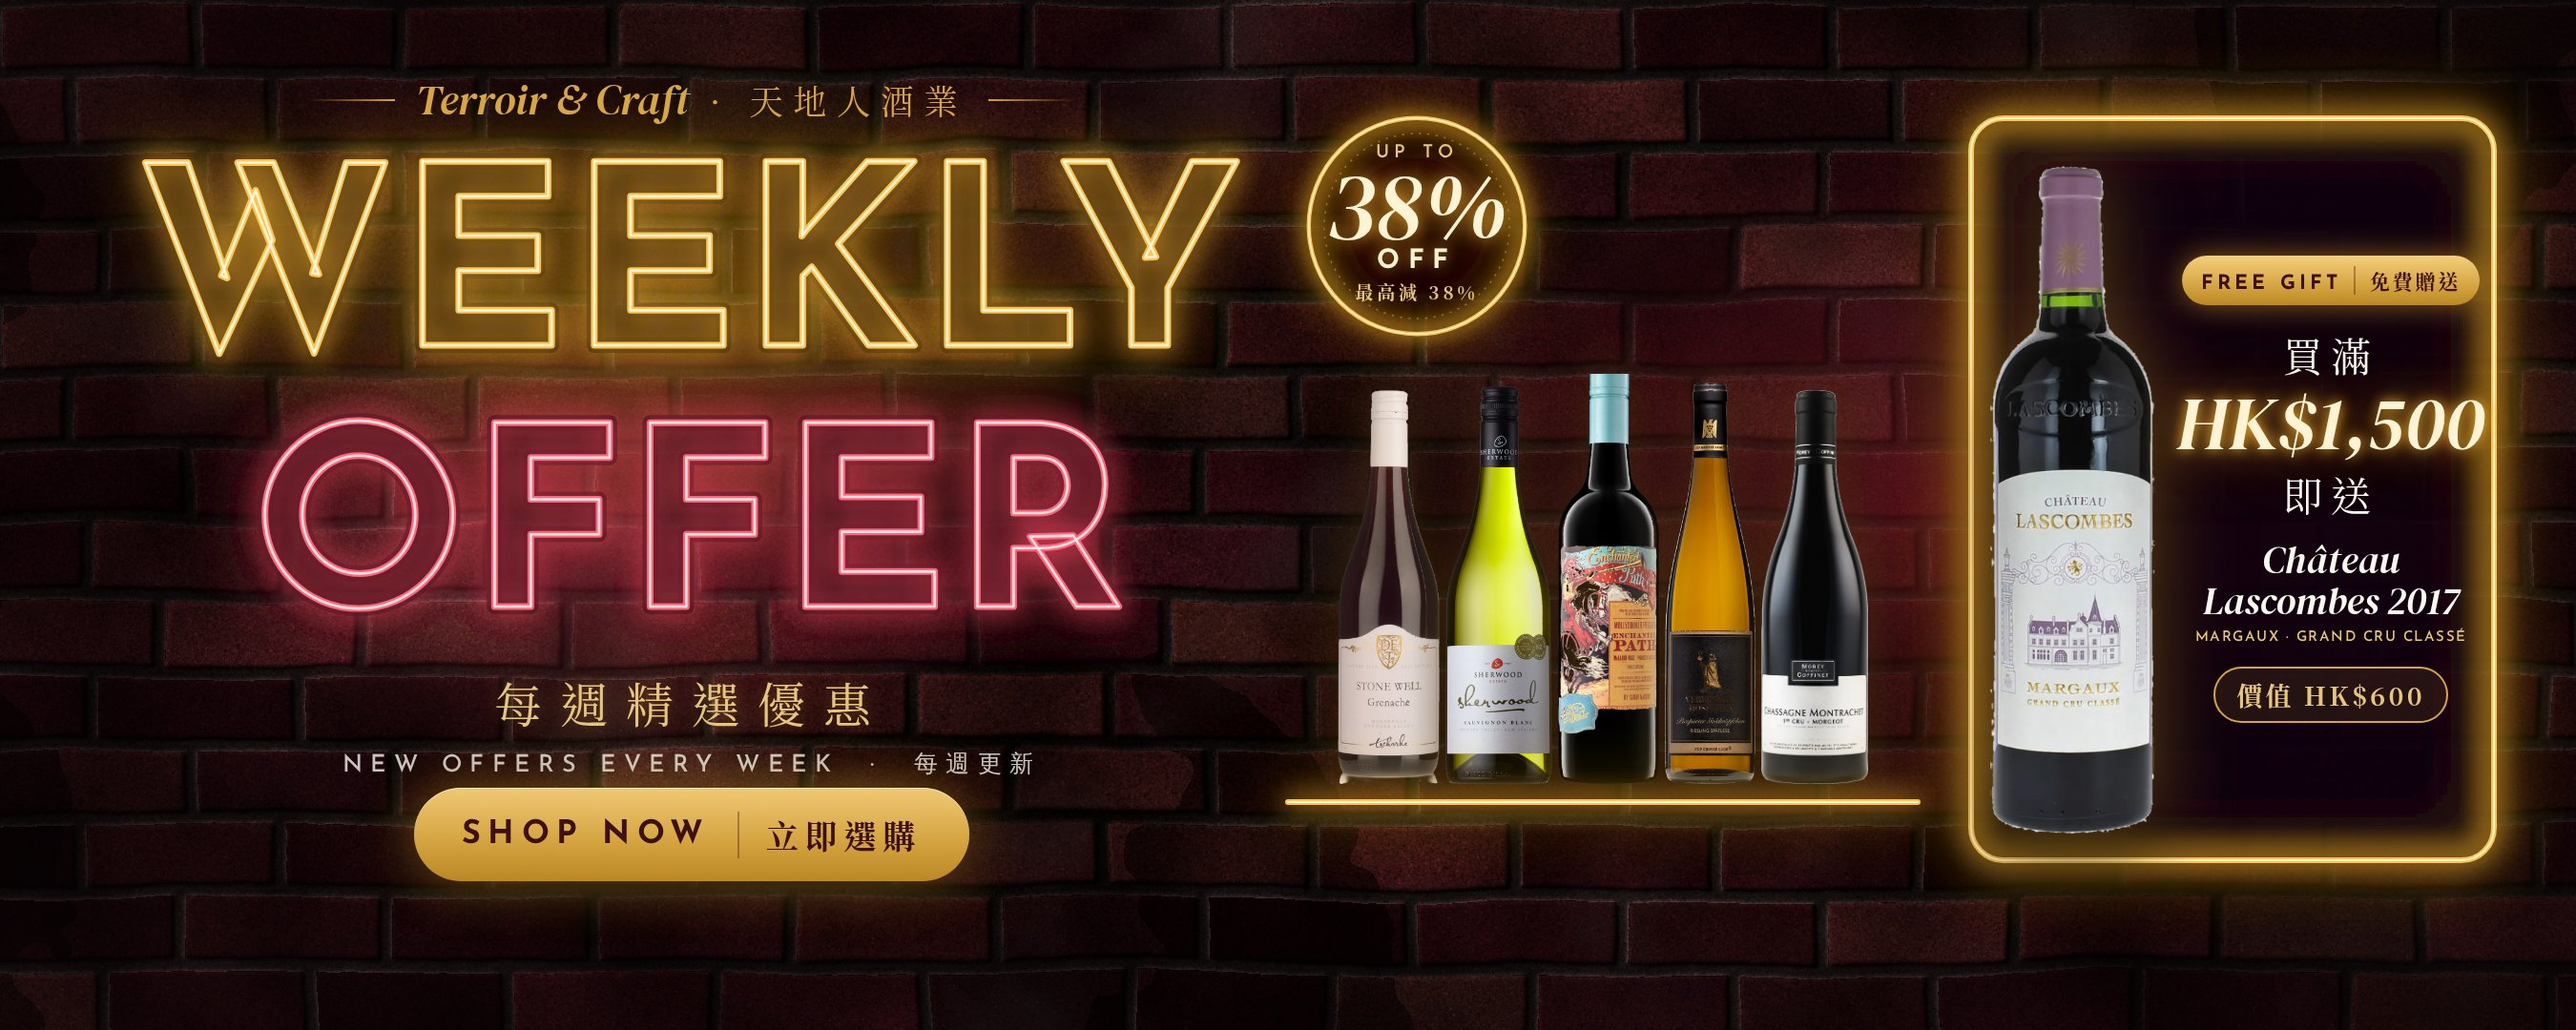
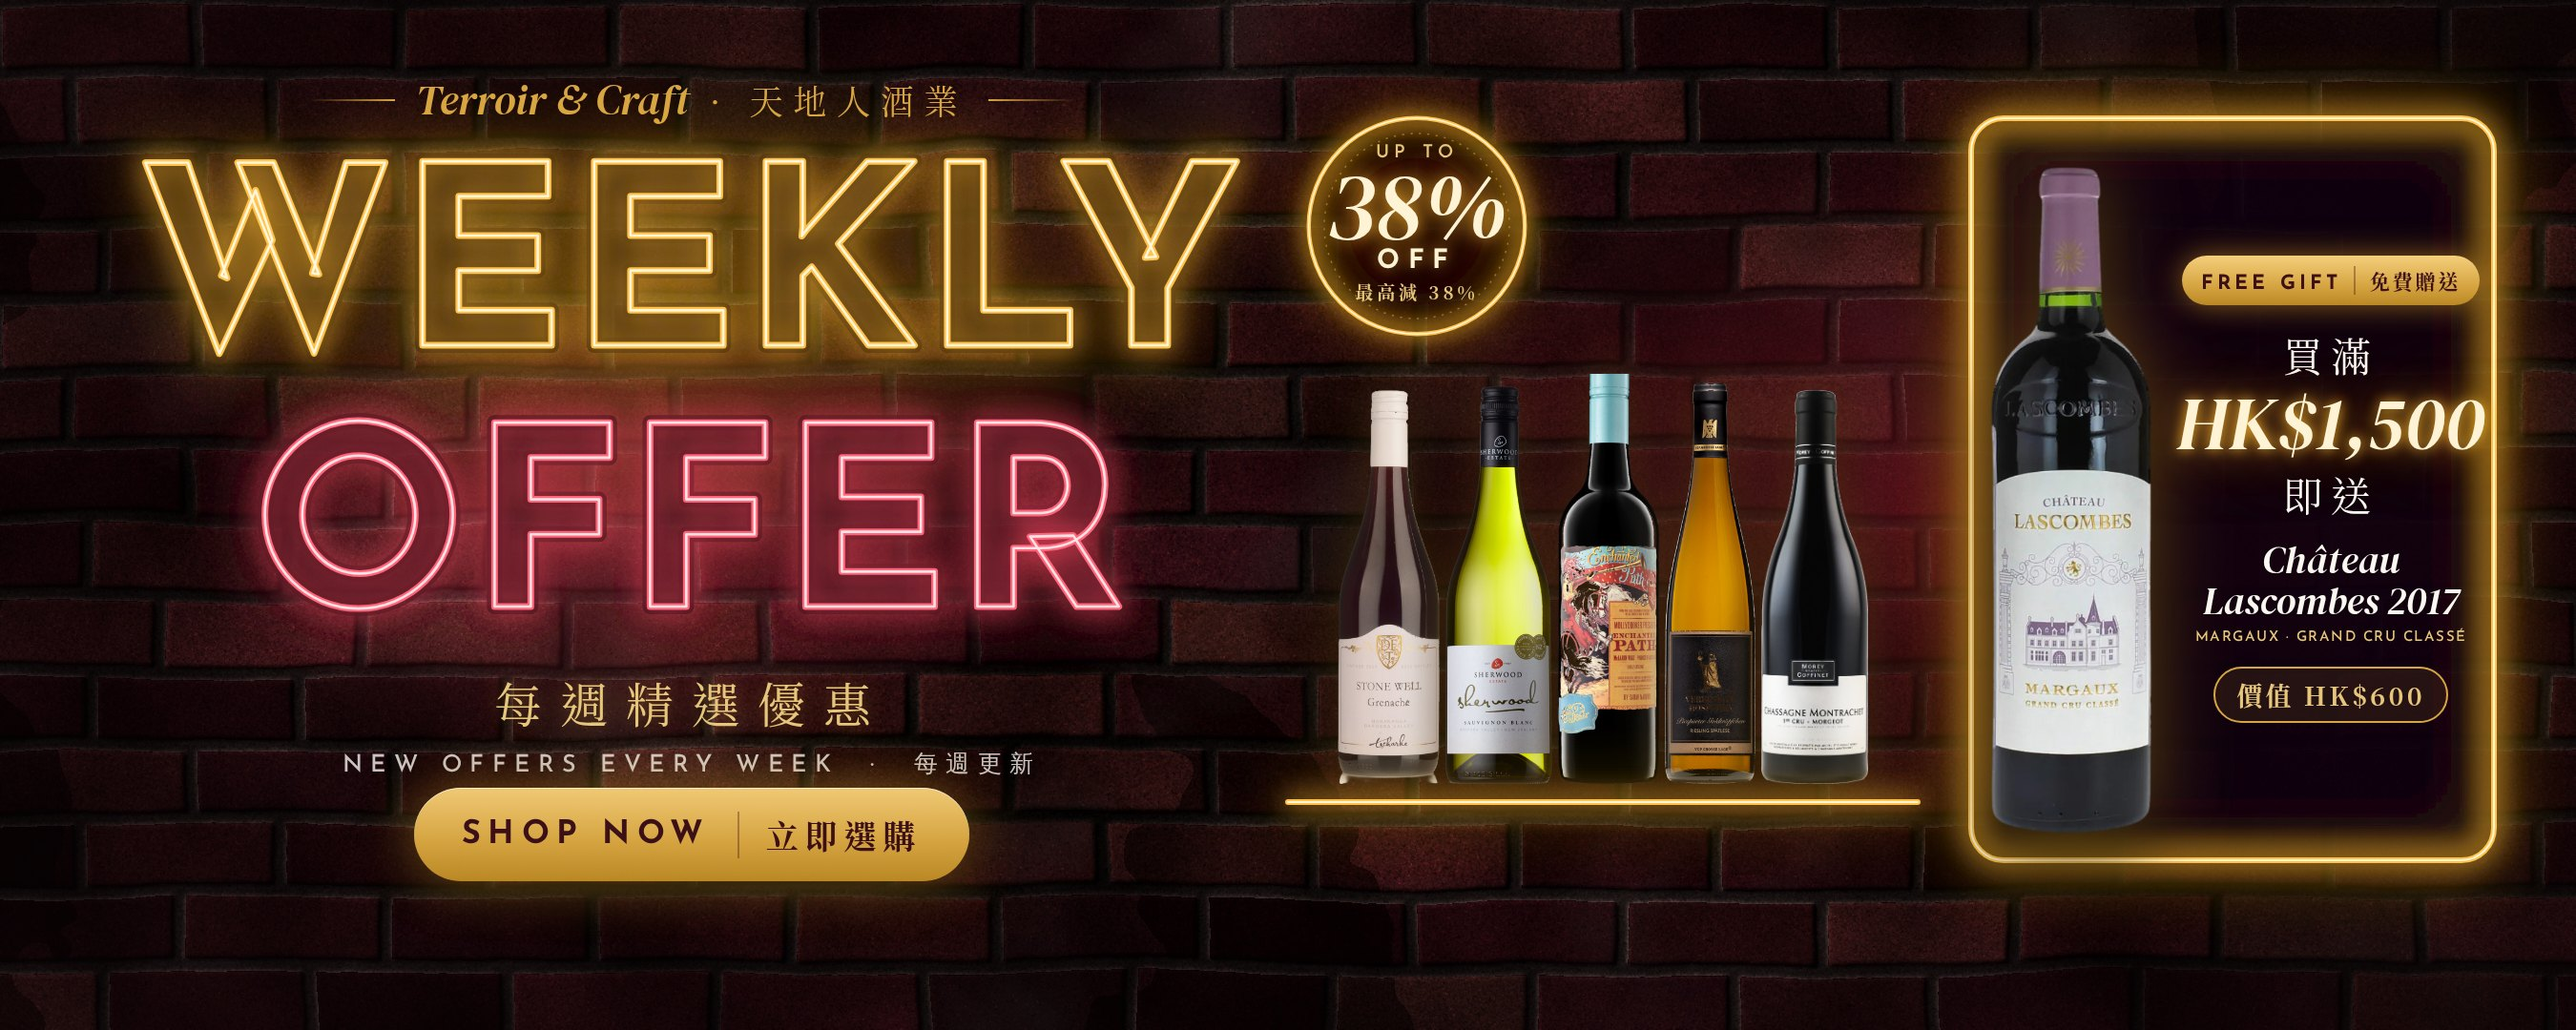
Weekly Offer: new Lascombes bottle image

Changed region(s): [[0.7778, 0.4889, 0.84, 0.7333], [0.7778, 0.3667, 0.84, 0.4583], [0.7778, 0.275, 0.8089, 0.3056]]

diff --git a/client/src/pages/PromotionPage.tsx b/client/src/pages/PromotionPage.tsx
@@ -257,9 +257,9 @@ export default function PromotionPage() {
           {/* ── Weekly Offer banner ── */}
           <div style={{ background: "#12060a" }}>
             <picture>
-              <source media="(min-width: 1024px)" srcSet={`${API_BASE}/weekly-offer-desktop.jpg?v=1`} />
+              <source media="(min-width: 1024px)" srcSet={`${API_BASE}/weekly-offer-desktop.jpg?v=2`} />
               <img
-                src={`${API_BASE}/weekly-offer-mobile.jpg?v=1`}
+                src={`${API_BASE}/weekly-offer-mobile.jpg?v=2`}
                 alt="Weekly Offer · 每週精選優惠"
                 className="block w-full h-auto mx-auto"
                 style={{ maxWidth: 1920 }}
@@ -271,7 +271,7 @@ export default function PromotionPage() {
           <div style={{ background: "linear-gradient(135deg, hsl(355,65%,10%) 0%, hsl(20,35%,12%) 100%)" }}>
             <div className="max-w-5xl mx-auto px-4 sm:px-6 py-8 flex flex-col sm:flex-row items-center gap-6 sm:gap-10">
               <img
-                src={`${API_BASE}/weekly/lascombes.png`}
+                src={`${API_BASE}/weekly/lascombes.png?v=2`}
                 alt="Château Lascombes 2017"
                 className="h-40 w-auto object-contain shrink-0 drop-shadow-2xl"
               />

diff --git a/client/src/pages/HomePage.tsx b/client/src/pages/HomePage.tsx
@@ -18,8 +18,8 @@ import { useState, useEffect, useCallback, useRef } from "react";
 const HERO_SLIDES = [
   {
     id: "weekly",
-    bg: `${API_BASE}/weekly-offer-desktop.jpg?v=1`,
-    bgMobile: `${API_BASE}/weekly-offer-mobile.jpg?v=1`,
+    bg: `${API_BASE}/weekly-offer-desktop.jpg?v=2`,
+    bgMobile: `${API_BASE}/weekly-offer-mobile.jpg?v=2`,
     overlay: "rgba(0,0,0,0)",
     eyebrow: "",
     heading: "",
